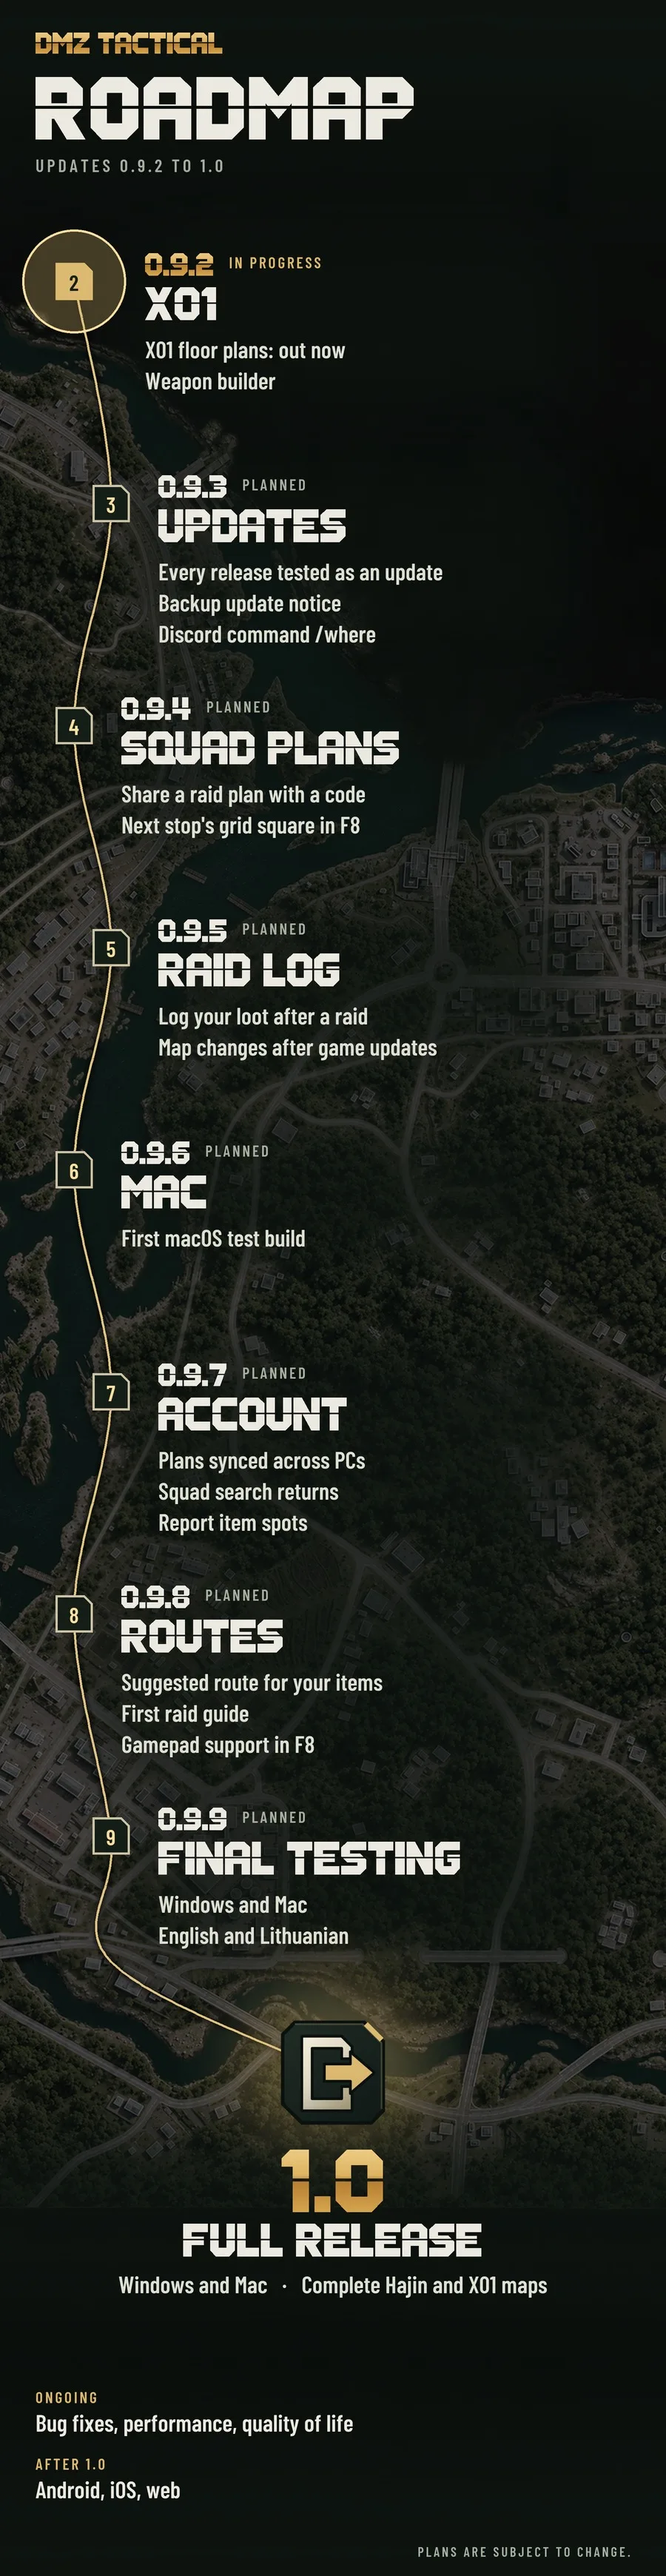
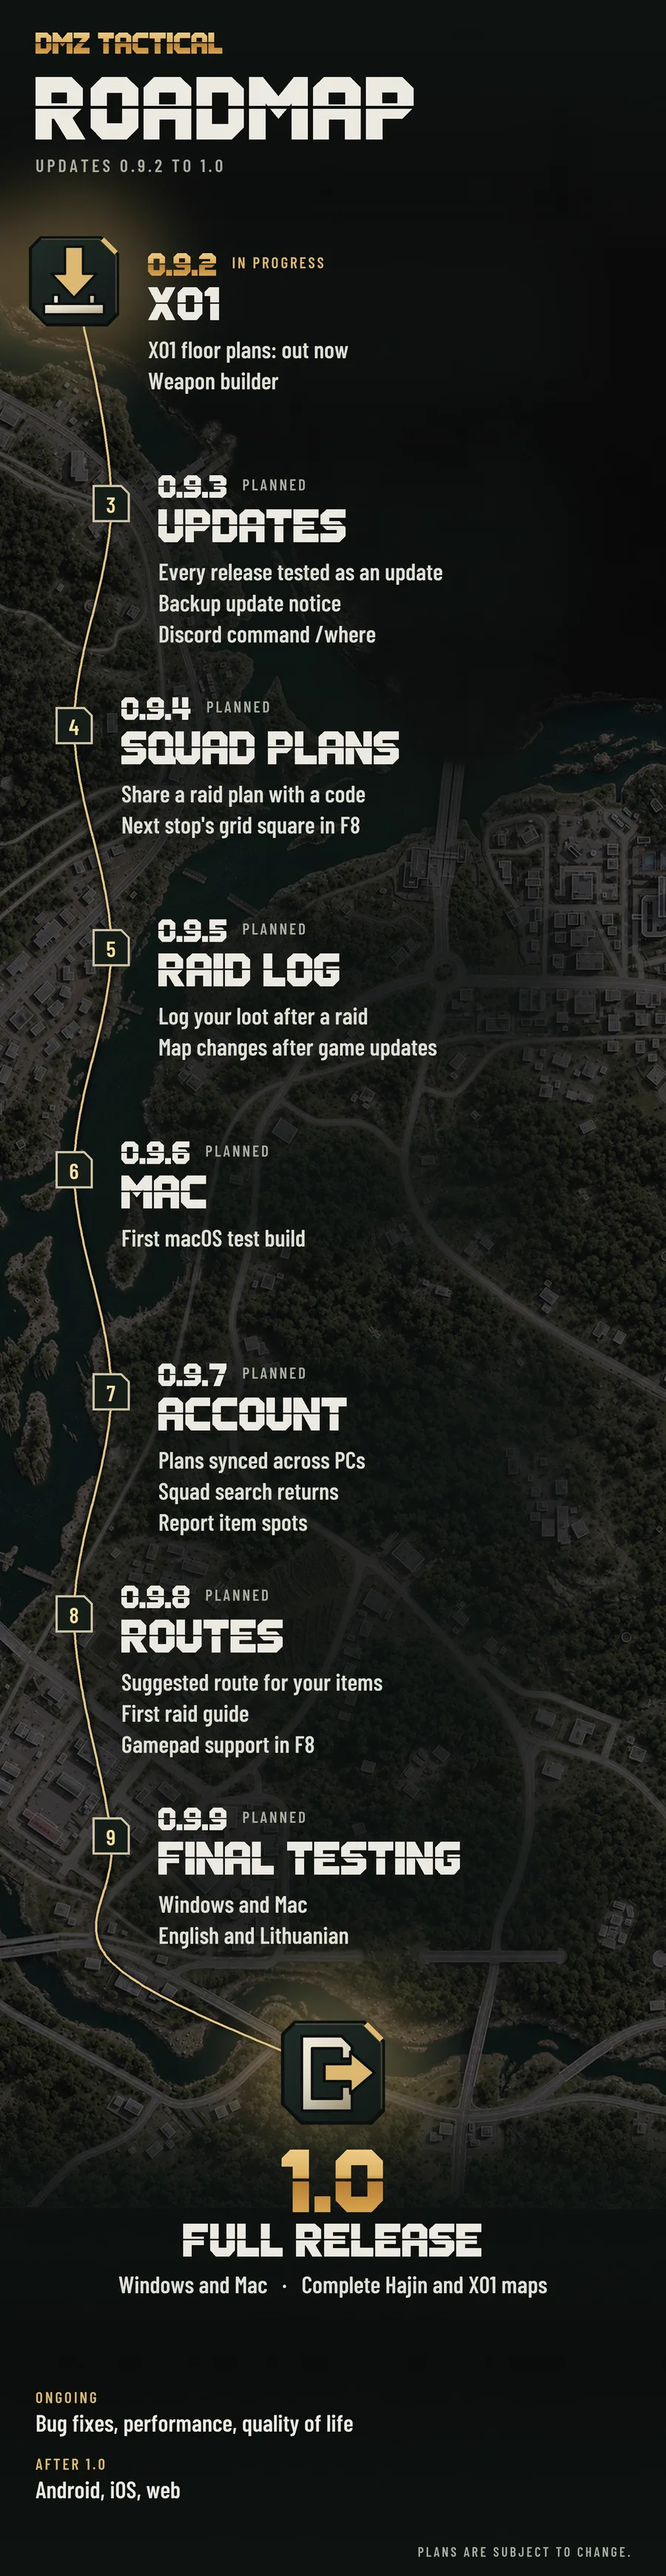
Roadmap: the route starts at infil and ends at exfil
The current release now shows the app's infil icon with the same soft
glow as the exfil at 1.0, on README and the website.

Changed region(s): [[0.0, 0.0621, 0.5289, 0.1552]]

diff --git a/docs/lt/index.html b/docs/lt/index.html
@@ -92,8 +92,8 @@
 <section aria-labelledby="road-h"><div class="wrap">
 <h2 id="road-h" class="sr-only">Planas iki 1.0</h2>
 <picture class="roadmap">
-<source media="(max-width: 600px)" srcset="../assets/img/roadmap-mobile-lt.webp?v=r2" width="900" height="3480">
-<img src="../assets/img/roadmap-lt.webp?v=r2" width="1200" height="2398" alt="Planas iki 1.0, nupieštas kaip reido maršrutas Hajin žemėlapyje. 0.9.2 X01, kuriama: X01 aukštų planai jau išleisti, ginklų komplektų kūrimą dar kuriame. 0.9.3 Atnaujinimai: kiekviena versija išbandoma kaip atnaujinimas, atsarginis pranešimas apie naują versiją ir Discord komanda /where. 0.9.4 Komandos planai: reido planas komandai su kodu ir kito sustojimo langelis F8 lange. 0.9.5 Reido žurnalas: ką parsinešei, pažymi po reido, ir žemėlapio pokyčiai po žaidimo atnaujinimų. 0.9.6 Mac: pirmoji bandomoji macOS versija. 0.9.7 Paskyra: planai visuose tavo kompiuteriuose, grįžta komandos paieška, naujos vietos pranešamos iš žemėlapio. 0.9.8 Maršrutai: siūlomas maršrutas tavo daiktams, pirmo reido vadovas, pulto valdymas F8 lange. 0.9.9 Galutinė patikra: Windows ir Mac, lietuvių ir anglų kalbos. 1.0 Pilna versija: Windows ir Mac, pilni Hajin ir X01 žemėlapiai. Nuolat: klaidų taisymai, spartesnis veikimas ir patogumas. Po 1.0: Android, iOS ir naršyklė. Planai gali keistis." loading="lazy" decoding="async">
+<source media="(max-width: 600px)" srcset="../assets/img/roadmap-mobile-lt.webp?v=r3" width="900" height="3480">
+<img src="../assets/img/roadmap-lt.webp?v=r3" width="1200" height="2398" alt="Planas iki 1.0, nupieštas kaip reido maršrutas Hajin žemėlapyje nuo infil iki exfil. 0.9.2 X01, kuriama: X01 aukštų planai jau išleisti, ginklų komplektų kūrimą dar kuriame. 0.9.3 Atnaujinimai: kiekviena versija išbandoma kaip atnaujinimas, atsarginis pranešimas apie naują versiją ir Discord komanda /where. 0.9.4 Komandos planai: reido planas komandai su kodu ir kito sustojimo langelis F8 lange. 0.9.5 Reido žurnalas: ką parsinešei, pažymi po reido, ir žemėlapio pokyčiai po žaidimo atnaujinimų. 0.9.6 Mac: pirmoji bandomoji macOS versija. 0.9.7 Paskyra: planai visuose tavo kompiuteriuose, grįžta komandos paieška, naujos vietos pranešamos iš žemėlapio. 0.9.8 Maršrutai: siūlomas maršrutas tavo daiktams, pirmo reido vadovas, pulto valdymas F8 lange. 0.9.9 Galutinė patikra: Windows ir Mac, lietuvių ir anglų kalbos. 1.0 Pilna versija: Windows ir Mac, pilni Hajin ir X01 žemėlapiai. Nuolat: klaidų taisymai, spartesnis veikimas ir patogumas. Po 1.0: Android, iOS ir naršyklė. Planai gali keistis." loading="lazy" decoding="async">
 </picture>
 <details class="road-text"><summary>Skaityti planą tekstu</summary><ol class="road"><li><b>0.9.2 · kuriama</b><span>X01 aukštų planai jau išleisti; ginklų komplektų kūrimą dar kuriame</span></li><li><b>0.9.3</b><span>Kiekviena versija išbandoma kaip atnaujinimas, atsarginis pranešimas apie naują versiją ir Discord komanda /where</span></li><li><b>0.9.4</b><span>Reido planas komandai su kodu ir kito sustojimo langelis F8 lange</span></li><li><b>0.9.5</b><span>Reido žurnalas: ką parsinešei, pažymi po reido, ir žemėlapio pokyčiai po žaidimo atnaujinimų</span></li><li><b>0.9.6</b><span>Pirmoji bandomoji macOS versija</span></li><li><b>0.9.7</b><span>Paskyra: planai visuose tavo kompiuteriuose, grįžta komandos paieška, naujos vietos pranešamos iš žemėlapio</span></li><li><b>0.9.8</b><span>Siūlomas maršrutas tavo daiktams, pirmo reido vadovas ir pulto valdymas F8 lange</span></li><li><b>0.9.9</b><span>Galutinė patikra: Windows ir Mac, lietuvių ir anglų kalbos</span></li><li><b>1.0</b><span>Pilna versija Windows ir Mac su pilnais Hajin ir X01 žemėlapiais</span></li><li><b>Po 1.0</b><span>Android, iOS ir naršyklė</span></li></ol></details>
 <p class="note">Klaidų taisymai, spartesnis veikimas ir patogumas – kiekviename atnaujinime. Planai gali keistis. Naujienas skelbiame <a href="https://discord.gg/PzCZNqmybB">Discord</a>.</p>

diff --git a/docs/index.html b/docs/index.html
@@ -92,8 +92,8 @@
 <section aria-labelledby="road-h"><div class="wrap">
 <h2 id="road-h" class="sr-only">Roadmap to 1.0</h2>
 <picture class="roadmap">
-<source media="(max-width: 600px)" srcset="assets/img/roadmap-mobile-en.webp?v=r2" width="900" height="3480">
-<img src="assets/img/roadmap-en.webp?v=r2" width="1200" height="2398" alt="Roadmap to 1.0, drawn as a raid route on the Hajin map. 0.9.2 X01, in progress: X01 floor plans are out now, the weapon builder is in progress. 0.9.3 Updates: every release tested as an update, a backup update notice and the Discord command /where. 0.9.4 Squad plans: share a raid plan with a code, and the next stop&#x27;s grid square in F8. 0.9.5 Raid log: log your loot after a raid, and map changes after game updates. 0.9.6 Mac: first macOS test build. 0.9.7 Account: plans synced across PCs, squad search returns, report item spots. 0.9.8 Routes: suggested route for your items, first raid guide, gamepad support in F8. 0.9.9 Final testing on Windows and Mac, in English and Lithuanian. 1.0 Full release: Windows and Mac, complete Hajin and X01 maps. Ongoing: bug fixes, performance and quality of life. After 1.0: Android, iOS and web. Plans are subject to change." loading="lazy" decoding="async">
+<source media="(max-width: 600px)" srcset="assets/img/roadmap-mobile-en.webp?v=r3" width="900" height="3480">
+<img src="assets/img/roadmap-en.webp?v=r3" width="1200" height="2398" alt="Roadmap to 1.0, drawn as a raid route on the Hajin map from infil to exfil. 0.9.2 X01, in progress: X01 floor plans are out now, the weapon builder is in progress. 0.9.3 Updates: every release tested as an update, a backup update notice and the Discord command /where. 0.9.4 Squad plans: share a raid plan with a code, and the next stop&#x27;s grid square in F8. 0.9.5 Raid log: log your loot after a raid, and map changes after game updates. 0.9.6 Mac: first macOS test build. 0.9.7 Account: plans synced across PCs, squad search returns, report item spots. 0.9.8 Routes: suggested route for your items, first raid guide, gamepad support in F8. 0.9.9 Final testing on Windows and Mac, in English and Lithuanian. 1.0 Full release: Windows and Mac, complete Hajin and X01 maps. Ongoing: bug fixes, performance and quality of life. After 1.0: Android, iOS and web. Plans are subject to change." loading="lazy" decoding="async">
 </picture>
 <details class="road-text"><summary>Read the roadmap as text</summary><ol class="road"><li><b>0.9.2 · in progress</b><span>X01 floor plans are out now; weapon builder in progress</span></li><li><b>0.9.3</b><span>Every release tested as an update, a backup update notice and the Discord command /where</span></li><li><b>0.9.4</b><span>Share a raid plan with your squad using a code; the next stop&#x27;s grid square in F8</span></li><li><b>0.9.5</b><span>Raid log for the loot you brought back, and map changes after game updates</span></li><li><b>0.9.6</b><span>First macOS test build</span></li><li><b>0.9.7</b><span>Account: plans synced across PCs, squad search returns, report item spots</span></li><li><b>0.9.8</b><span>Suggested route for your items, first raid guide and gamepad support in F8</span></li><li><b>0.9.9</b><span>Final testing on Windows and Mac, in English and Lithuanian</span></li><li><b>1.0</b><span>Full release for Windows and Mac with complete Hajin and X01 maps</span></li><li><b>After 1.0</b><span>Android, iOS and web</span></li></ol></details>
 <p class="note">Bug fixes, performance and quality of life improvements continue in every update. Plans are subject to change. Follow progress on <a href="https://discord.gg/PzCZNqmybB">Discord</a>.</p>

diff --git a/README.lt.md b/README.lt.md
@@ -71,8 +71,8 @@
 ## Kas toliau
 
 <picture>
-<source media="(max-width: 600px)" srcset="media/hajin-roadmap-1-0-r2-mobile-lt.jpg">
-<img src="media/hajin-roadmap-1-0-r2-lt.jpg" width="100%" alt="Planas iki 1.0, nupieštas kaip reido maršrutas Hajin žemėlapyje. 0.9.2 X01, kuriama: X01 aukštų planai jau išleisti, ginklų komplektų kūrimą dar kuriame. 0.9.3 Atnaujinimai: kiekviena versija išbandoma kaip atnaujinimas, atsarginis pranešimas apie naują versiją ir Discord komanda /where. 0.9.4 Komandos planai: reido planas komandai su kodu ir kito sustojimo langelis F8 lange. 0.9.5 Reido žurnalas: ką parsinešei, pažymi po reido, ir žemėlapio pokyčiai po žaidimo atnaujinimų. 0.9.6 Mac: pirmoji bandomoji macOS versija. 0.9.7 Paskyra: planai visuose tavo kompiuteriuose, grįžta komandos paieška, naujos vietos pranešamos iš žemėlapio. 0.9.8 Maršrutai: siūlomas maršrutas tavo daiktams, pirmo reido vadovas, pulto valdymas F8 lange. 0.9.9 Galutinė patikra: Windows ir Mac, lietuvių ir anglų kalbos. 1.0 Pilna versija: Windows ir Mac, pilni Hajin ir X01 žemėlapiai. Nuolat: klaidų taisymai, spartesnis veikimas ir patogumas. Po 1.0: Android, iOS ir naršyklė. Planai gali keistis.">
+<source media="(max-width: 600px)" srcset="media/hajin-roadmap-1-0-r3-mobile-lt.jpg">
+<img src="media/hajin-roadmap-1-0-r3-lt.jpg" width="100%" alt="Planas iki 1.0, nupieštas kaip reido maršrutas Hajin žemėlapyje nuo infil iki exfil. 0.9.2 X01, kuriama: X01 aukštų planai jau išleisti, ginklų komplektų kūrimą dar kuriame. 0.9.3 Atnaujinimai: kiekviena versija išbandoma kaip atnaujinimas, atsarginis pranešimas apie naują versiją ir Discord komanda /where. 0.9.4 Komandos planai: reido planas komandai su kodu ir kito sustojimo langelis F8 lange. 0.9.5 Reido žurnalas: ką parsinešei, pažymi po reido, ir žemėlapio pokyčiai po žaidimo atnaujinimų. 0.9.6 Mac: pirmoji bandomoji macOS versija. 0.9.7 Paskyra: planai visuose tavo kompiuteriuose, grįžta komandos paieška, naujos vietos pranešamos iš žemėlapio. 0.9.8 Maršrutai: siūlomas maršrutas tavo daiktams, pirmo reido vadovas, pulto valdymas F8 lange. 0.9.9 Galutinė patikra: Windows ir Mac, lietuvių ir anglų kalbos. 1.0 Pilna versija: Windows ir Mac, pilni Hajin ir X01 žemėlapiai. Nuolat: klaidų taisymai, spartesnis veikimas ir patogumas. Po 1.0: Android, iOS ir naršyklė. Planai gali keistis.">
 </picture>
 
 <p align="center">Naujienos – <a href="https://discord.gg/PzCZNqmybB">Discord serveryje</a>.</p>

diff --git a/README.md b/README.md
@@ -71,8 +71,8 @@
 ## What's next
 
 <picture>
-<source media="(max-width: 600px)" srcset="media/hajin-roadmap-1-0-r2-mobile-en.jpg">
-<img src="media/hajin-roadmap-1-0-r2-en.jpg" width="100%" alt="Roadmap to 1.0, drawn as a raid route on the Hajin map. 0.9.2 X01, in progress: X01 floor plans are out now, the weapon builder is in progress. 0.9.3 Updates: every release tested as an update, a backup update notice and the Discord command /where. 0.9.4 Squad plans: share a raid plan with a code, and the next stop's grid square in F8. 0.9.5 Raid log: log your loot after a raid, and map changes after game updates. 0.9.6 Mac: first macOS test build. 0.9.7 Account: plans synced across PCs, squad search returns, report item spots. 0.9.8 Routes: suggested route for your items, first raid guide, gamepad support in F8. 0.9.9 Final testing on Windows and Mac, in English and Lithuanian. 1.0 Full release: Windows and Mac, complete Hajin and X01 maps. Ongoing: bug fixes, performance and quality of life. After 1.0: Android, iOS and web. Plans are subject to change.">
+<source media="(max-width: 600px)" srcset="media/hajin-roadmap-1-0-r3-mobile-en.jpg">
+<img src="media/hajin-roadmap-1-0-r3-en.jpg" width="100%" alt="Roadmap to 1.0, drawn as a raid route on the Hajin map from infil to exfil. 0.9.2 X01, in progress: X01 floor plans are out now, the weapon builder is in progress. 0.9.3 Updates: every release tested as an update, a backup update notice and the Discord command /where. 0.9.4 Squad plans: share a raid plan with a code, and the next stop's grid square in F8. 0.9.5 Raid log: log your loot after a raid, and map changes after game updates. 0.9.6 Mac: first macOS test build. 0.9.7 Account: plans synced across PCs, squad search returns, report item spots. 0.9.8 Routes: suggested route for your items, first raid guide, gamepad support in F8. 0.9.9 Final testing on Windows and Mac, in English and Lithuanian. 1.0 Full release: Windows and Mac, complete Hajin and X01 maps. Ongoing: bug fixes, performance and quality of life. After 1.0: Android, iOS and web. Plans are subject to change.">
 </picture>
 
 <p align="center">Follow progress on <a href="https://discord.gg/PzCZNqmybB">Discord</a>.</p>
